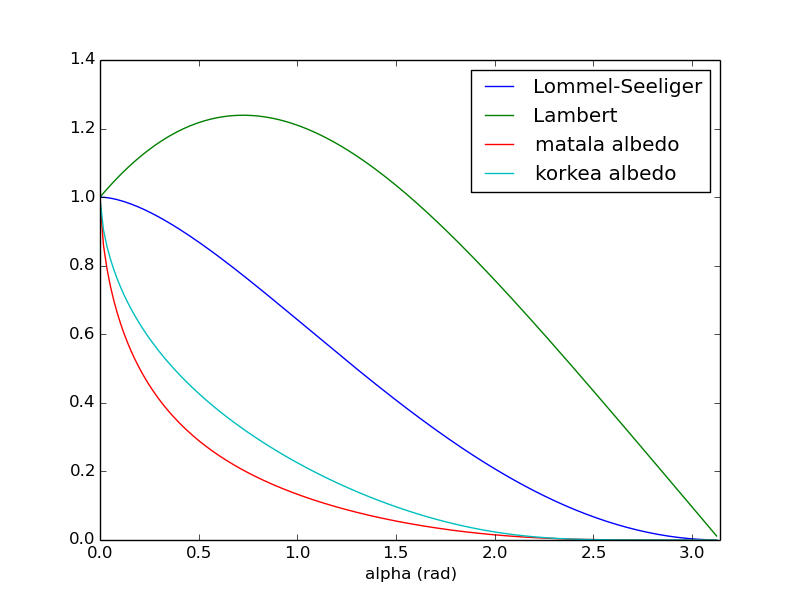
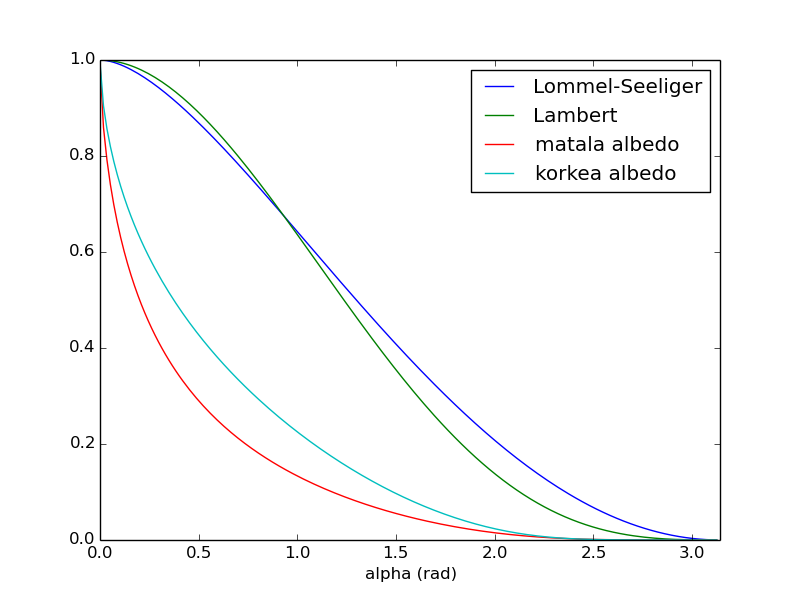
osaispa normittaa

diff --git a/laskarit/integroidutKirkkaudet.py b/laskarit/integroidutKirkkaudet.py
@@ -23,9 +23,10 @@ alpha = [radians(a) for a in alpha]
 ls0 = (1-sin(0.5*alpha[0])*tan(0.5*alpha[0]))
 l0 = pi
 
+
 for i in range(len(alpha)): # ei käydä ekaa läpi
     ls[i] = (1-sin(0.5*alpha[i])*tan(0.5*alpha[i])*log(1.0/tan(0.25*alpha[i])))/ls0
-    l[i] = sin(alpha[i])+(pi-alpha[i])*cos(alpha[i])/l0
+    l[i] = (sin(alpha[i])+(pi-alpha[i])*cos(alpha[i]))/l0
     fiiPieni[i] = (1.0-gPieni)*exp(-3.33*tan(0.5*alpha[i])**0.63)+gPieni*exp(-1.87*tan(0.5*alpha[i])**1.22)
     fiiIso[i] = (1.0-gIso)*exp(-3.33*tan(0.5*alpha[i])**0.63)+gIso*exp(-1.87*tan(0.5*alpha[i])**1.22)
 
